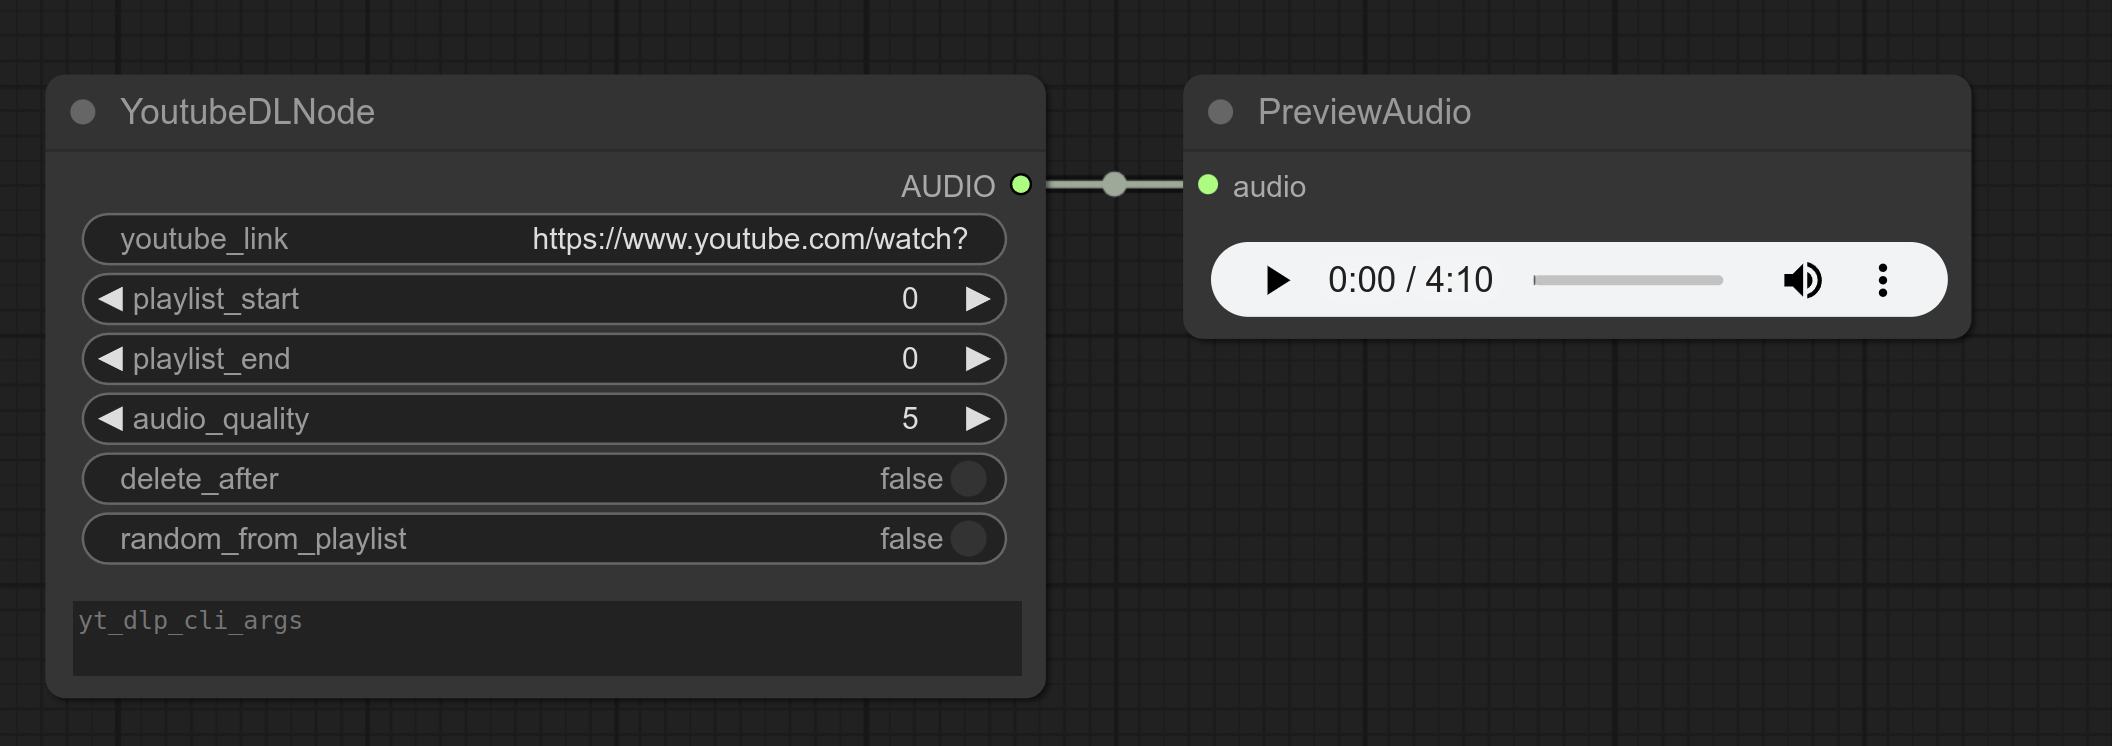
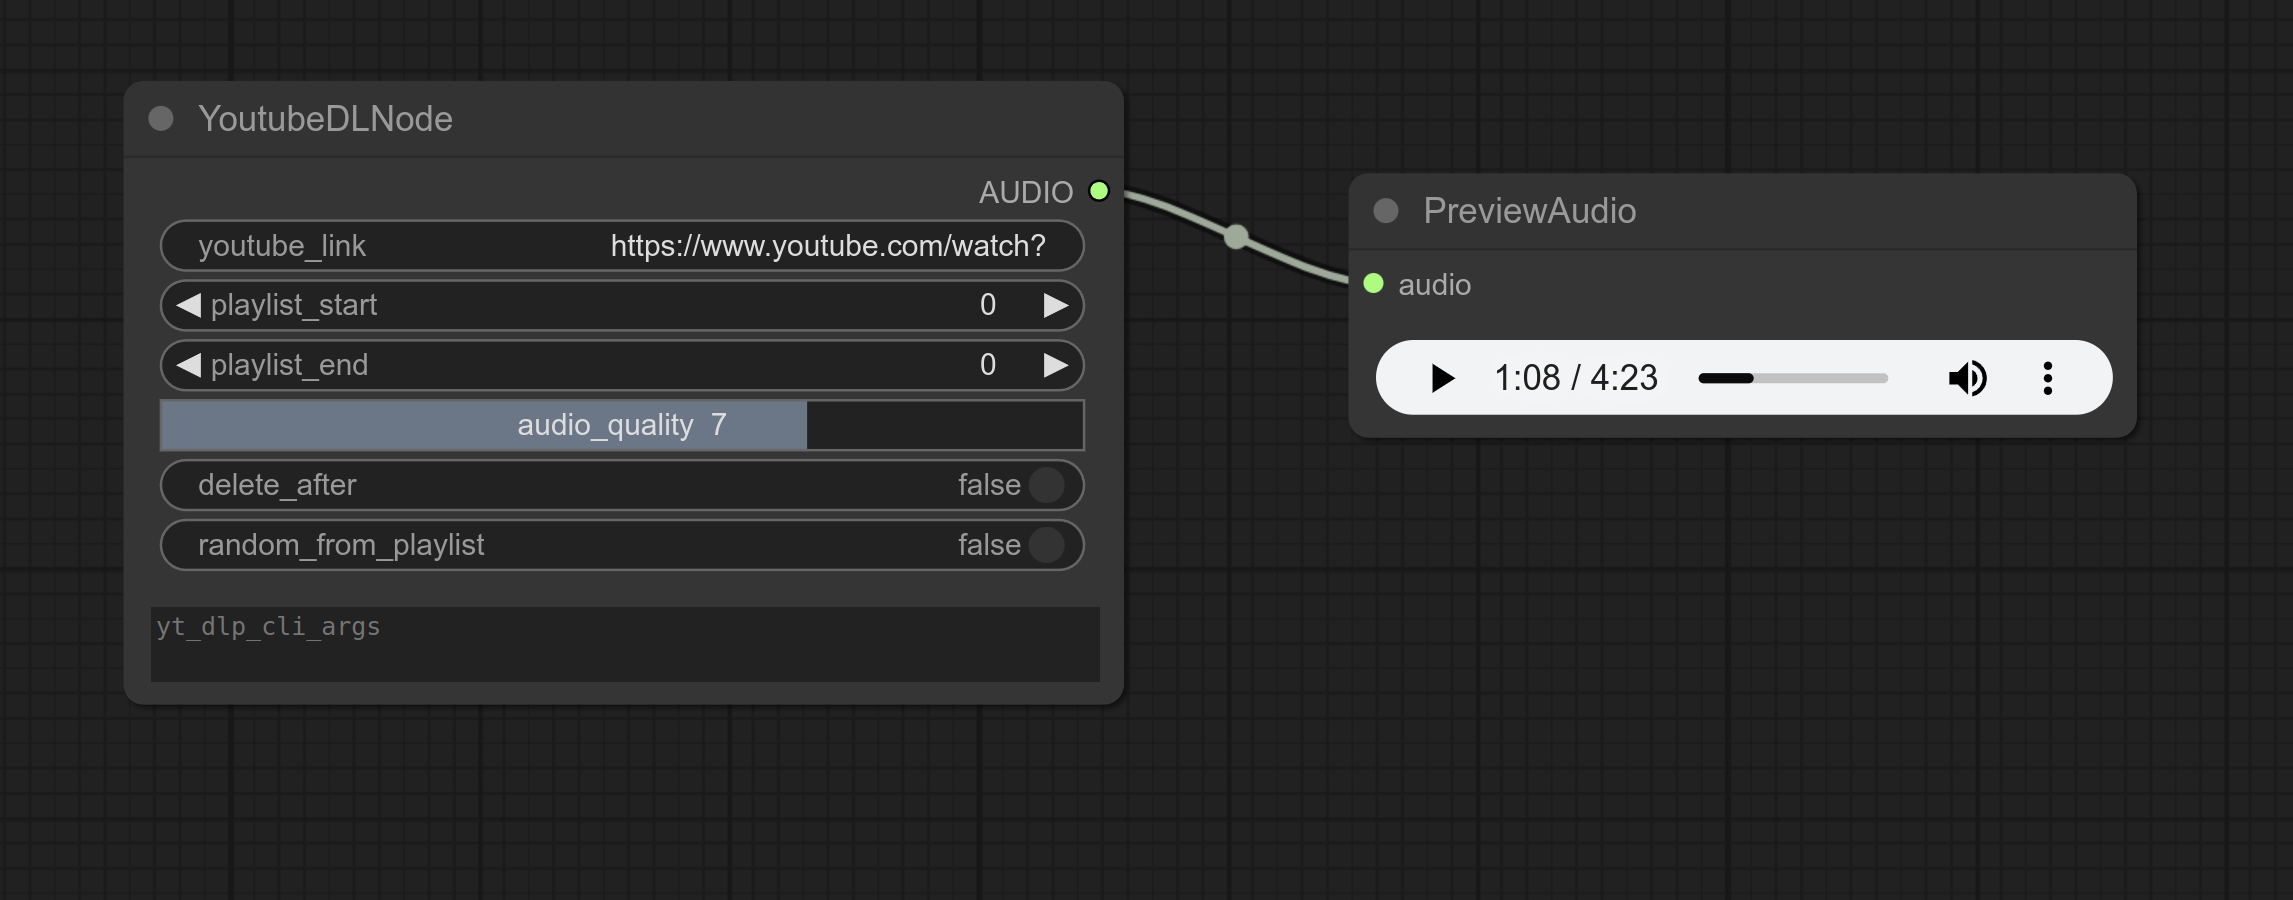
Make quality input slider

diff --git a/nodes.py b/nodes.py
@@ -10,7 +10,7 @@ import yt_dlp.utils
 from .parse_custom_cli_args import cli_to_api
 import folder_paths
 
-from typing import Optional
+from typing import Optional, List
 
 
 class YoutubeDLNode:
@@ -45,13 +45,13 @@ class YoutubeDLNode:
             },
             "optional": {
                 "audio_quality": (
-                    "INT",
+                    "FLOAT",
                     {
                         "default": 5,
                         "min": 0,
                         "max": 10,
                         "step": 1,
-                        "display": "number",
+                        "display": "slider",
                     },
                 ),
                 "delete_after": (
@@ -90,7 +90,7 @@ class YoutubeDLNode:
         youtube_link,
         playlist_start,
         playlist_end,
-        audio_quality: Optional[int] = None,
+        audio_quality: Optional[float] = None,
         delete_after: bool = False,
         random_from_playlist: bool = False,
         yt_dlp_cli_args: Optional[str] = None,
@@ -109,7 +109,7 @@ class YoutubeDLNode:
         }
 
         if audio_quality:
-            ydl_opts["audioquality"] = int(audio_quality)
+            ydl_opts["audioquality"] = int(round(audio_quality))
         if random_from_playlist:
             ydl_opts["playlist_random"] = True
         if self.is_windows:
@@ -156,14 +156,14 @@ class YoutubeDLNode:
 
         return (audio,)
 
-    def is_playlist(self, res):
+    def is_playlist(self, res: dict) -> bool:
         has_playlist_basename = (
             "webpage_url_basename" in res and res["webpage_url_basename"] == "playlist"
         )
         has_playlist_count = "playlist_count" in res and res["playlist_count"] > 0
         return has_playlist_basename or has_playlist_count
 
-    def pad_cat(self, waveforms):
+    def pad_cat(self, waveforms: List[torch.Tensor]) -> torch.Tensor:
         """
         Args:
             waveforms: List[torch.Tensor]
@@ -184,7 +184,7 @@ class YoutubeDLNode:
         for path in paths:
             os.remove(path)
 
-    def match_file(self, basename, mime_type="video"):
+    def match_file(self, basename: str, mime_type: str = "video") -> str:
         input_dir = folder_paths.get_input_directory()
         windows_basename = yt_dlp.utils.sanitize_filename(basename)
         for fi in os.listdir(input_dir):
@@ -200,7 +200,7 @@ class YoutubeDLNode:
             f"Could not find file in input_dir {input_dir} with basename: {basename}"
         )
 
-    def resolve_path(self, basename):
+    def resolve_path(self, basename: str) -> str:
         input_dir = folder_paths.get_input_directory()
         filename = self.match_file(basename)
         return os.path.join(input_dir, filename)
@@ -215,7 +215,7 @@ class YoutubeDLNode:
         waveform, sample_rate = torchaudio.load(path)
         return waveform.unsqueeze(0), sample_rate
 
-    def get_playlist_entry_titles(self, res):
+    def get_playlist_entry_titles(self, res: dict) -> List[str]:
         if "entries" not in res:
             raise KeyError(
                 f"Expected this to be a playlist but there are is no 'entries' key in the response: {res}"

diff --git a/README.md b/README.md
@@ -15,7 +15,7 @@ Download youtube videos/playlists
 
 If you provide a link to a playlist, the videos from `playlist_start` to `playlist_end` will be downloaded and output in a batch.
 
-You can use any of the [yt-dlp cli options](https://github.com/yt-dlp/yt-dlp?tab=readme-ov-file#usage-and-options)
+You can use any of the [yt-dlp cli args](https://github.com/yt-dlp/yt-dlp?tab=readme-ov-file#usage-and-options) for configuration.
 
 ## Requirements
 
